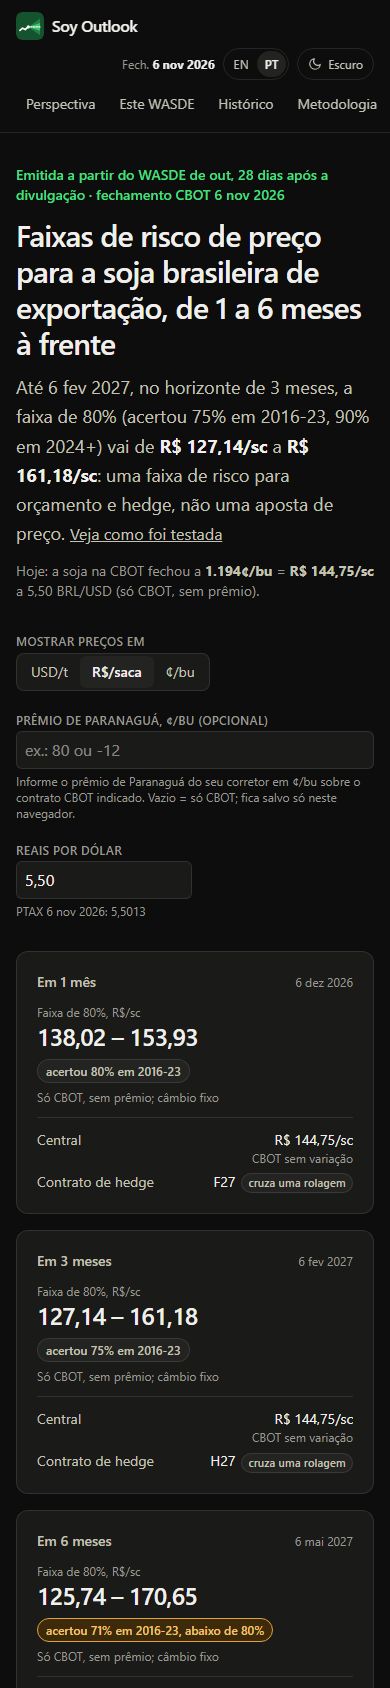
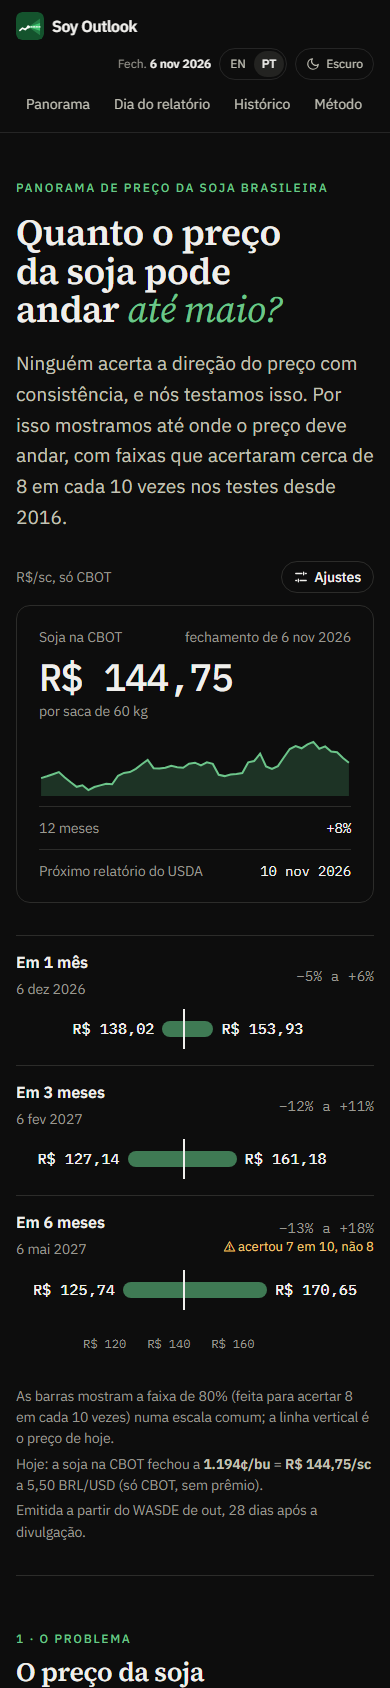
docs: describe the story home page and refresh the screenshots
README: the Outlook row of the pages table describes the story (hero,
ladder, six chapters, Settings), Track record mentions the For analysts
fold, nav names follow the site (Report day, Method, Panorama), and the
accessibility line no longer claims a data table under every chart.
Screenshots regenerated with e2e/shots.spec.ts.

diff --git a/README.md b/README.md
@@ -21,10 +21,10 @@ Built by **Diego Rossi** · [LinkedIn](https://www.linkedin.com/in/rossi-diego/)
 - **Market-risk judgement.** FOB = CBOT + port premium, with the premium a user input only (no unlicensed premium data is shipped), FX an explicit input, and bands labelled "CBOT price risk only" until a joint band is earned.
 - **Statistics checked for multiplicity and stability.** A release-day event study with HC1 errors, a Holm adjustment (nothing survives it), placebo, split-sample and roll-exclusion checks shown on the site, and an 80% prediction interval in the what-if, which opens on the post-2018 fit because the effect is not stable.
 - **Built for both audiences.** English by default (USD/t), with a client-side Portuguese (pt-BR) toggle that follows the browser language and switches to R$/saca, Brazilian number and date formats and an optional, user-supplied port-to-interior discount; numbers and caveats are identical in both, which an end-to-end test checks on every page.
-- **Accessible and mobile-first.** Axe-checked, with AA colour contrast, native radio groups, slider value text and a data table under every chart; an axe gate in CI (zero serious or critical violations on every route, both themes, both locales) and 390 px phone screenshots below.
+- **Accessible and mobile-first.** Axe-checked, with AA colour contrast, native radio groups, slider value text, a text alternative on every chart and a data table under the forecast and track-record charts; an axe gate in CI (zero serious or critical violations on every route, both themes, both locales) and 390 px phone screenshots below.
 - **End-to-end engineering.** Typed Python package (bronze → silver → gold → publish), structured logging, 80%+ test coverage, a static Next.js site with a Playwright contract test that keeps the copy in line with the JSON, CI and Docker.
 
-![Outlook page: three cards with the 80% range for 1, 3 and 6 months in USD per tonne, a no-direction-signal note, unit and premium controls, and a fan chart of the CBOT price](docs/screenshots/outlook-light.png)
+![Outlook page as a story: the question "How far could soybeans move by May?", today's CBOT price ticket and the 1, 3 and 6-month 80% ranges on one shared scale, followed by six chapters (price history with stress episodes, the model contest, the tested ranges, today's outlook, a hedging calculator and the next WASDE)](docs/screenshots/outlook-light.png)
 
 ---
 
@@ -76,24 +76,24 @@ Everything above was removed. The old notebooks stay in `notebooks/archive/` for
 
 | Page | Question it answers | What is on it |
 |---|---|---|
-| **Outlook** | How far could CBOT move in 1, 3 and 6 months? | 80% and 95% ranges in ¢/bu, USD/t or R$/sack, each labelled with its measured hit rate. FX is an input; FOB appears only once you type a premium (empty by default, kept in your browser). A decision panel shows downside vs selling today at 1-in-10 and rough 1-in-40 (illustrative, range-based, not VaR). Whisker chart, folded stress replay. |
-| **This WASDE** | How much does CBOT move on release day, and on what? | Release-day band (±4.5 USD/t typical, ±11.6 for 1 report in 10) with its out-of-sample hit rate, the latest revisions, a what-if with an 80% prediction interval (opens on the 2018+ fit), and a *How stable is this?* block. |
-| **Track record** | Did any model beat "no change"? | One-line verdict with the minimum detectable effect, misses by tail, a dot plot of errors vs no change, past forecasts vs prices, published outlooks vs outcomes. Formal tests sit in a **For statisticians** fold. |
-| **Methodology** | How was it built, and what are the limits? | Method, units, limitations and the v1 audit. |
+| **Outlook** | How far could soybeans move by the 6-month target? | A story read top to bottom. The hero answers first: today's price, its 12-month line and the next USDA report on a ticket, and the 1, 3 and 6-month 80% ranges on one shared scale, with a flag where a range held fewer than 8 in 10. Six short chapters follow: the price history with the pre-registered stress episodes, the model contest (validation MAE at 3 months, no model beats "no change"), every past 3-month range against the actual price with the holdout shaded, today's ranges, a calculator for the 1-in-10 bad case vs locking in today's price (seller or buyer, volume, hedged share), and the next WASDE with the typical release-day move. Unit (¢/bu, USD/t, R$/sack), FX and your Paranaguá premium sit in a Settings button; FOB appears only once you type a premium (kept in your browser). |
+| **Report day** | How much does CBOT move on WASDE release day, and on what? | Release-day band (±4.5 USD/t typical, ±11.6 for 1 report in 10) with its out-of-sample hit rate, the latest revisions, a what-if with an 80% prediction interval (opens on the 2018+ fit), and a *How stable is this?* block. |
+| **Track record** | Did any model beat "no change"? | One-line verdict with the minimum detectable effect, misses by tail, a dot plot of errors vs no change, past forecasts vs prices, published outlooks vs outcomes. Formal tests sit in a **For statisticians** fold; today's outlook in full detail (range cards with hedge contracts and rolls, how to read the ranges, the full decision panel with 1-in-40 and the target-price readout, the stress replay) in a **For analysts** fold. |
+| **Method** | How was it built, and what are the limits? | Method, units, limitations and the v1 audit. |
 
-| This WASDE | Track record |
+| Report day | Track record |
 |---|---|
-| ![This WASDE page](docs/screenshots/wasde-light.png) | ![Track record page, dark theme](docs/screenshots/track-record-dark.png) |
+| ![Report day (WASDE) page](docs/screenshots/wasde-light.png) | ![Track record page, dark theme](docs/screenshots/track-record-dark.png) |
 
-On a phone (390 px): cards stack, charts are 260 px high, segmented controls use short labels and the WASDE and test tables become labelled rows.
+On a phone (390 px): the hero stacks above the ranges, the story charts redraw at the column width (numbered episode markers instead of labels), ECharts charts are 260 px high, segmented controls use short labels and the WASDE and test tables become labelled rows.
 
-| Outlook, light | Outlook, dark | This WASDE, light | Track record, dark |
+| Outlook, light | Outlook, dark | Report day, light | Track record, dark |
 |---|---|---|---|
-| ![Outlook page on a 390 px phone, light theme](docs/screenshots/outlook-mobile-light.png) | ![Outlook page on a 390 px phone, dark theme](docs/screenshots/outlook-mobile-dark.png) | ![This WASDE page on a 390 px phone, light theme](docs/screenshots/wasde-mobile-light.png) | ![Track record page on a 390 px phone, dark theme](docs/screenshots/track-record-mobile-dark.png) |
+| ![Outlook page on a 390 px phone, light theme](docs/screenshots/outlook-mobile-light.png) | ![Outlook page on a 390 px phone, dark theme](docs/screenshots/outlook-mobile-dark.png) | ![Report day page on a 390 px phone, light theme](docs/screenshots/wasde-mobile-light.png) | ![Track record page on a 390 px phone, dark theme](docs/screenshots/track-record-mobile-dark.png) |
 
 In Portuguese (pt-BR), the same page defaults to R$/saca with Brazilian number and date formats; every number matches the English page.
 
-| Perspectiva, desktop | Perspectiva, celular (escuro) |
+| Panorama, desktop | Panorama, celular (escuro) |
 |---|---|
 | ![Outlook page in Portuguese, light theme, prices in R$ per sack](docs/screenshots/outlook-pt-light.png) | ![Outlook page in Portuguese on a 390 px phone, dark theme](docs/screenshots/outlook-pt-mobile-dark.png) |
 
@@ -181,7 +181,7 @@ How data reaches the site, in short (details and owner setup in [docs/REFRESH.md
 │   ├── pipeline.py · cli.py · errors.py (exit codes) · config.py (pre-registered horizons, splits, features) · freshness.py (close guard, source status) · fixtures.py · units.py · logs.py
 ├── tests/            110 tests: no look-ahead, intervals, event study, ingest checks (httpx.MockTransport), JSON contract, close guard, gate, archive
 │   └── fixtures/bronze/  synthetic WASDE, CBOT and PTAX inputs for the hermetic CI run
-├── web/              Next.js static site (Outlook, This WASDE, Track record, Methodology)
+├── web/              Next.js static site (Outlook, Report day, Track record, Method)
 │   └── scripts/      brand-assets.mjs: static social card (og.png) and icons from their sources
 ├── data/wasde.lock.json  WASDE input pin (release tag + sha256), the only committed data; no premium data is shipped
 └── notebooks/archive/  v1 notebooks, kept for the audit trail
